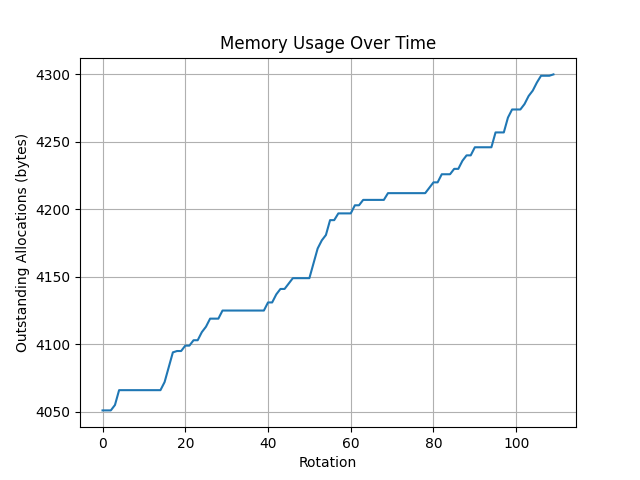
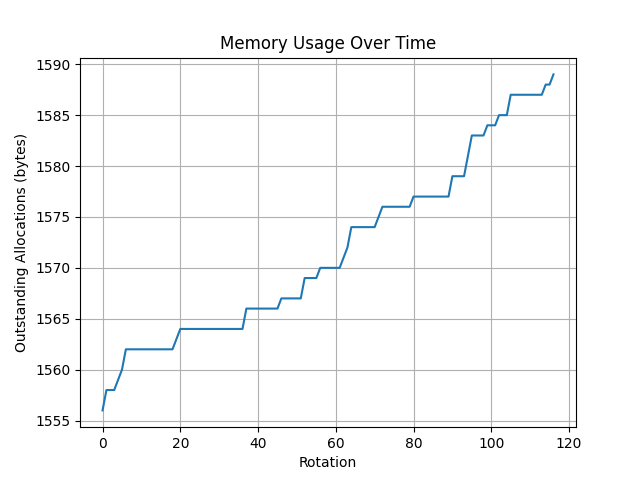
upp

diff --git a/memory-leak-inventory.md b/memory-leak-inventory.md
@@ -1,46 +1,22 @@
-# Memory Leak Inventory
+# Memory-Leak Inventory
 
-This project deliberately accumulates memory management issues so learners can practice tooling and debugging. The list below captures every leak currently present (updated 2025-11-12) along with the file locations and the trigger that surfaces each allocation.
+| Component (file)                                                         | Leak trigger                                                                                                                                                                                                                      | Why it leaks                                                                                                                                                                      | Suggested remediation                                                                                                                                                                            |
+| ------------------------------------------------------------------------ | --------------------------------------------------------------------------------------------------------------------------------------------------------------------------------------------------------------------------------- | --------------------------------------------------------------------------------------------------------------------------------------------------------------------------------- | ------------------------------------------------------------------------------------------------------------------------------------------------------------------------------------------------ |
+| `Town` containers (`Excecises/src/Town/Town.h`, `Town.cpp`)              | `std::vector` fields (`carParks`, `cars`, `humans`, `trucks`, `garages`, `distanceLedger`, `relocationSnapshots`) store raw pointers that are never released                                                                      | `Town` owns the pointed-to objects for the lifetime of the simulation but never deletes them (and `distanceLedger`/`relocationSnapshots` keep allocating new `double`/`Location`) | Store values or `std::unique_ptr<T>` so destruction happens automatically; replace `distanceLedger`/`relocationSnapshots` with `std::vector<double>` / `std::vector<Location>` and push by value |
+| `Town::buildGarage`, `buildNRandomCars`, `cloneRandomHuman` (`Town.cpp`) | Helper factories allocate with `new` (garages, cars, humans, `char*` license plates) and hand raw pointers to callers                                                                                                             | No matching `delete[]` for the plate buffers or `delete` for the cloned objects; ownership semantics unclear                                                                      | Return owning smart pointers (`std::unique_ptr<Garage>` etc.) or construct directly inside the owning vectors; prefer `std::string` for license plates                                           |
+| `main.cpp`                                                               | Simulation bootstrap uses `new` for cars, trucks, humans, garages, then only deletes the final instances after the loop                                                                                                           | The newly created objects are transferred to `Town` but never freed before exit, so the tracker reports steadily climbing outstanding allocations                                 | Allocate on the stack (e.g., `Town town;`) or wrap in `std::unique_ptr` and let `Town` take ownership via move semantics                                                                         |
+| `Vehicle` / `Car` / `Truck` (`Excecises/src/Vehicles`)                   | `Vehicle` allocates `std::string` and holds a raw `Location*` created with `new` in `Car::Car`; there is no destructor to free them, and `setLocation` stores the address of temporaries                                          | Every `Car`/`Truck` leaks the heap-allocated license plate and `Location`; dangling pointers arise when `setLocation` receives a temporary                                        | Give `Vehicle` a destructor that deletes the owned data, or better, store `std::string` and `Location` by value; `Car` should pass an actual `Location` object, not `*new Location{}`            |
+| `Human` (`Human/Human.cpp`)                                              | `Human` stores `name` as `new std::string` and `garage` as raw pointer without destructor                                                                                                                                         | Each `Human` instance leaks its name and any garage it allocated                                                                                                                  | Store `std::string name` by value and use `std::unique_ptr<Garage>` (or shared ownership if needed); define a destructor to clean up legacy pointers                                             |
+| `Garage` (`Garage/Garage.cpp`)                                           | Maintains raw `Car*`/`Truck*` vectors and `listVehicles` allocates `Location` and `Vehicle` objects every call without freeing                                                                                                    | Vehicles moved into the garage are never destroyed; listing creates additional leaked clones                                                                                      | Represent stored vehicles with owning smart pointers or by value; have `listVehicles` return lightweight references instead of allocating duplicates                                             |
+| `CarPark` (`CarPark/CarPark.cpp`)                                        | Multiple auxiliary structures (`exitHistory`, `auditTrail`, `humanNotes`, `courtesyFleet`, `courtesyHaulers`, `ghostVehicles`) push heap allocations forever (e.g., `allocateLogEntry`, `new Location`, `new Car`, `new Vehicle`) | None of these collections are drained or freed, so the program accumulates leaked telemetry objects                                                                               | Replace the raw pointers with value types (`std::string`, `Location`) or smart pointers; when logging text, store `std::string` instead of `char*`                                               |
+| `MemoryTracker` interaction                                              | `MemoryTracker` overrides global `new/delete`, but simulator never calls `MemoryTracker::shutdown()` and leaks prevent `g_outstandingAllocations` from returning to zero                                                          | Logs show perpetual growth, obscuring real regressions                                                                                                                            | Ensure `MemoryTracker::shutdown()` runs on exit (e.g., `atexit` or RAII object) and eliminate upstream leaks so the counters stabilize                                                           |
 
-## Geometry & Vehicle Foundation
+## Pointer-Removal Game Plan
 
-- **L-01** – `Excecises/src/Location.h:15`: `Location::add` builds a `new Location` on every call and hands ownership to the caller, yet none of the call sites delete the pointer. Reproduce by calling `Vehicle::move` repeatedly.
-- **L-02** – `Excecises/src/Vehicles/Vehicle.cpp:18`: `Vehicle::Vehicle` stores its license plate in a `new std::string` and relies on the default destructor, so the string is never reclaimed. Happens for every `Car` and `Truck` instance.
-- **L-03** – `Excecises/src/Vehicles/Vehicle.cpp:32`: Setting `currentLocation` to the result of `Location::add` leaks the previous pointer forever. Trigger by calling `Vehicle::move` multiple times.
-- **L-04** – `Excecises/src/Vehicles/Car.cpp:3`: The `Car` constructor dereferences `*new Location{0, 0}` to seed the embedded `Vehicle`, leaking that heap allocation at construction time.
-- **L-05** – `Excecises/src/Vehicles/Truck.cpp:6`: `Truck` allocates `new std::vector<double>` for cargo weights without supplying a destructor, so the container persists until process exit.
+- **Prefer value semantics.** Most entities (`Car`, `Truck`, `Garage`, `CarPark`, `Human`) are movable/copyable. Store them directly inside `std::vector` instead of `std::vector<T*>`. Expose references or indexes when other subsystems need access.
+- **Adopt smart pointers for polymorphic ownership.** Where polymorphism is essential (e.g., storing heterogeneous `Vehicle`s), use `std::unique_ptr<Vehicle>` and move them into containers. Factory helpers should return smart pointers or concrete objects, never raw `new`.
+- **Eliminate manual `new[]`.** `char*` license plates can be plain `std::string` (or `std::array<char, 7>`). Replacing them removes the need for explicit deletes and avoids copying errors.
+- **Add destructors only when still needed.** After migrating to values/smart pointers, most classes can rely on compiler-generated destructors. If a class truly owns a legacy raw pointer, implement a destructor plus copy/move semantics so ownership stays clear.
+- **Audit helper collections.** Logging/history buffers (`auditTrail`, `exitHistory`, etc.) should either cap their size or store by value to keep the memory tracker quiet. Consider wrapping these in RAII structs that release resources automatically.
 
-## CarPark Subsystem
-
-- **CP-01** – `Excecises/src/CarPark/CarPark.cpp:18`: `generateRandomLicensePlate` returns a raw `char[7]`. Callers (notably `Town::buildNRandomCars`) never delete the buffer.
-- **CP-02** – `Excecises/src/CarPark/CarPark.cpp:53`: `CarPark::addCar` pushes `allocateLogEntry(...)` into `auditTrail`. `auditTrail` is never cleared, so every park event leaks a heap buffer.
-- **CP-03** – `Excecises/src/CarPark/CarPark.cpp:64`: `CarPark::addTruck` mirrors CP-02 for trucks.
-- **CP-04** – `Excecises/src/CarPark/CarPark.cpp:73`: `CarPark::removeCar` does `Car* car = new Car(...);` and immediately overwrites the pointer, leaking the freshly allocated `Car`.
-- **CP-05** – `Excecises/src/CarPark/CarPark.cpp:76-79`: Removing a car records a `new Location` in `exitHistory`, spawns a courtesy `new Car` in `courtesyFleet`, and drops another log buffer into `auditTrail`. None of these collections are cleaned up.
-- **CP-06** – `Excecises/src/CarPark/CarPark.cpp:86`: `CarPark::removeTruck` repeats the same pattern with trucks, leaking a `Truck`, a `Location`, and a log buffer per removal.
-- **CP-07** – `Excecises/src/CarPark/CarPark.cpp:96-99`: `CarPark::parkVehicle` snapshots each vehicle into `ghostVehicles` by allocating both a `Vehicle` and its backing `Location`. The shadow fleet is never freed.
-- **CP-08** – `Excecises/src/CarPark/CarPark.cpp:104-106`: `assignCarToHuman` allocates a `char[]` note for `humanNotes` and another for the audit trail; both grow unbounded.
-
-## Garage & Human Ownership Layers
-
-- **G-01** – `Excecises/src/Garage/Garage.cpp:35-46`: `Garage::listVehicles` allocates `Location` and `Vehicle` objects for reporting and returns them by value. Callers (for example `Town::useRandomGarage`) drop the returned vector, leaking every element.
-- **H-01** – `Excecises/src/Human/Human.cpp:3`: `Human` owns its name via `new std::string` and creates a `new Garage`, but without a destructor both objects leak when the human is done.
-- **H-02** – `Excecises/src/Human/Human.cpp:32`: `Human::clone` creates a heap `Human` that is never reclaimed because there is no ownership strategy; repeated cloning compounds the leak.
-
-## Town-Level Simulation
-
-- **T-01** – `Excecises/src/Town/Town.cpp:15`: `Town::addCarPark`, `addCar`, `addTruck`, `addHuman`, and `addGarage` all retain raw pointers. Because `Town` never frees these collections, every entity allocated for the town leaks at shutdown.
-- **T-02** – `Excecises/src/Town/Town.cpp:132`: `Town::buildNRandomCars` allocates `char** licensePlates` and each plate via `generateRandomLicensePlate`. The helper never deletes the array or the individual buffers.
-- **T-03** – `Excecises/src/Town/Town.cpp:148`: `Town::cloneRandomHuman` starts by allocating a fresh `Human` and then overwrites the pointer with an existing resident before cloning. The initial `new Human` is immediately leaked.
-- **T-04** – `Excecises/src/Town/Town.cpp:45`: `moveRandomCarToRandomLocation` records each randomized location inside `relocationSnapshots` as `new Location` entries without cleanup.
-- **T-05** – `Excecises/src/Town/Town.cpp:54`: `moveRandomTruckToRandomLocation` mirrors T-04 for trucks.
-- **T-06** – `Excecises/src/Town/Town.cpp:71`: `calculateDistanceBetweenRandomLocations` pushes a `new double` into `distanceLedger` on every call, and the ledger is never drained.
-- **T-07** – `Excecises/src/Town/Town.cpp:98`: `Town::parkVehicleInNearestCarPark` hands cars to `CarPark::addCar`, cascading into CP-02/CP-07 leaks for every operation.
-- **T-08** – `Excecises/src/Town/Town.cpp:121`: `useRandomGarage` ignores the returned vehicle list, so all allocations described in G-01 leak in bulk during garage inspections.
-
-## Cross-Cutting Patterns
-
-- **X-01** – Any call to `Human::purchaseCar`/`purchaseTruck` or `Town::buildGarage` produces heap objects that are stored only in owning vectors without a corresponding destruction path. Long-running simulations will accumulate these indefinitely.
-- **X-02** – The new `auditTrail`, `humanNotes`, `exitHistory`, `courtesyFleet`, `courtesyHaulers`, `ghostVehicles`, `distanceLedger`, and `relocationSnapshots` members all grow monotonically during a run, providing diverse leak signatures (raw buffers, STL containers, nested object graphs) for diagnostic practice.
-
-Use this catalogue as a checklist when exercising leak detectors (AddressSanitizer, Valgrind, CRT leak reports, etc.). Each entry is reproducible through the simulation loop in `Town::run`, and together they cover a wide range of leak patterns: orphaned new/delete pairs, container growth without teardown, and ownership bugs introduced by cloning or logging helpers.
+Applying these steps will bring `MemoryTracker`’s `outstanding_allocations` counter back to zero at shutdown and makes future leak hunting much easier.
